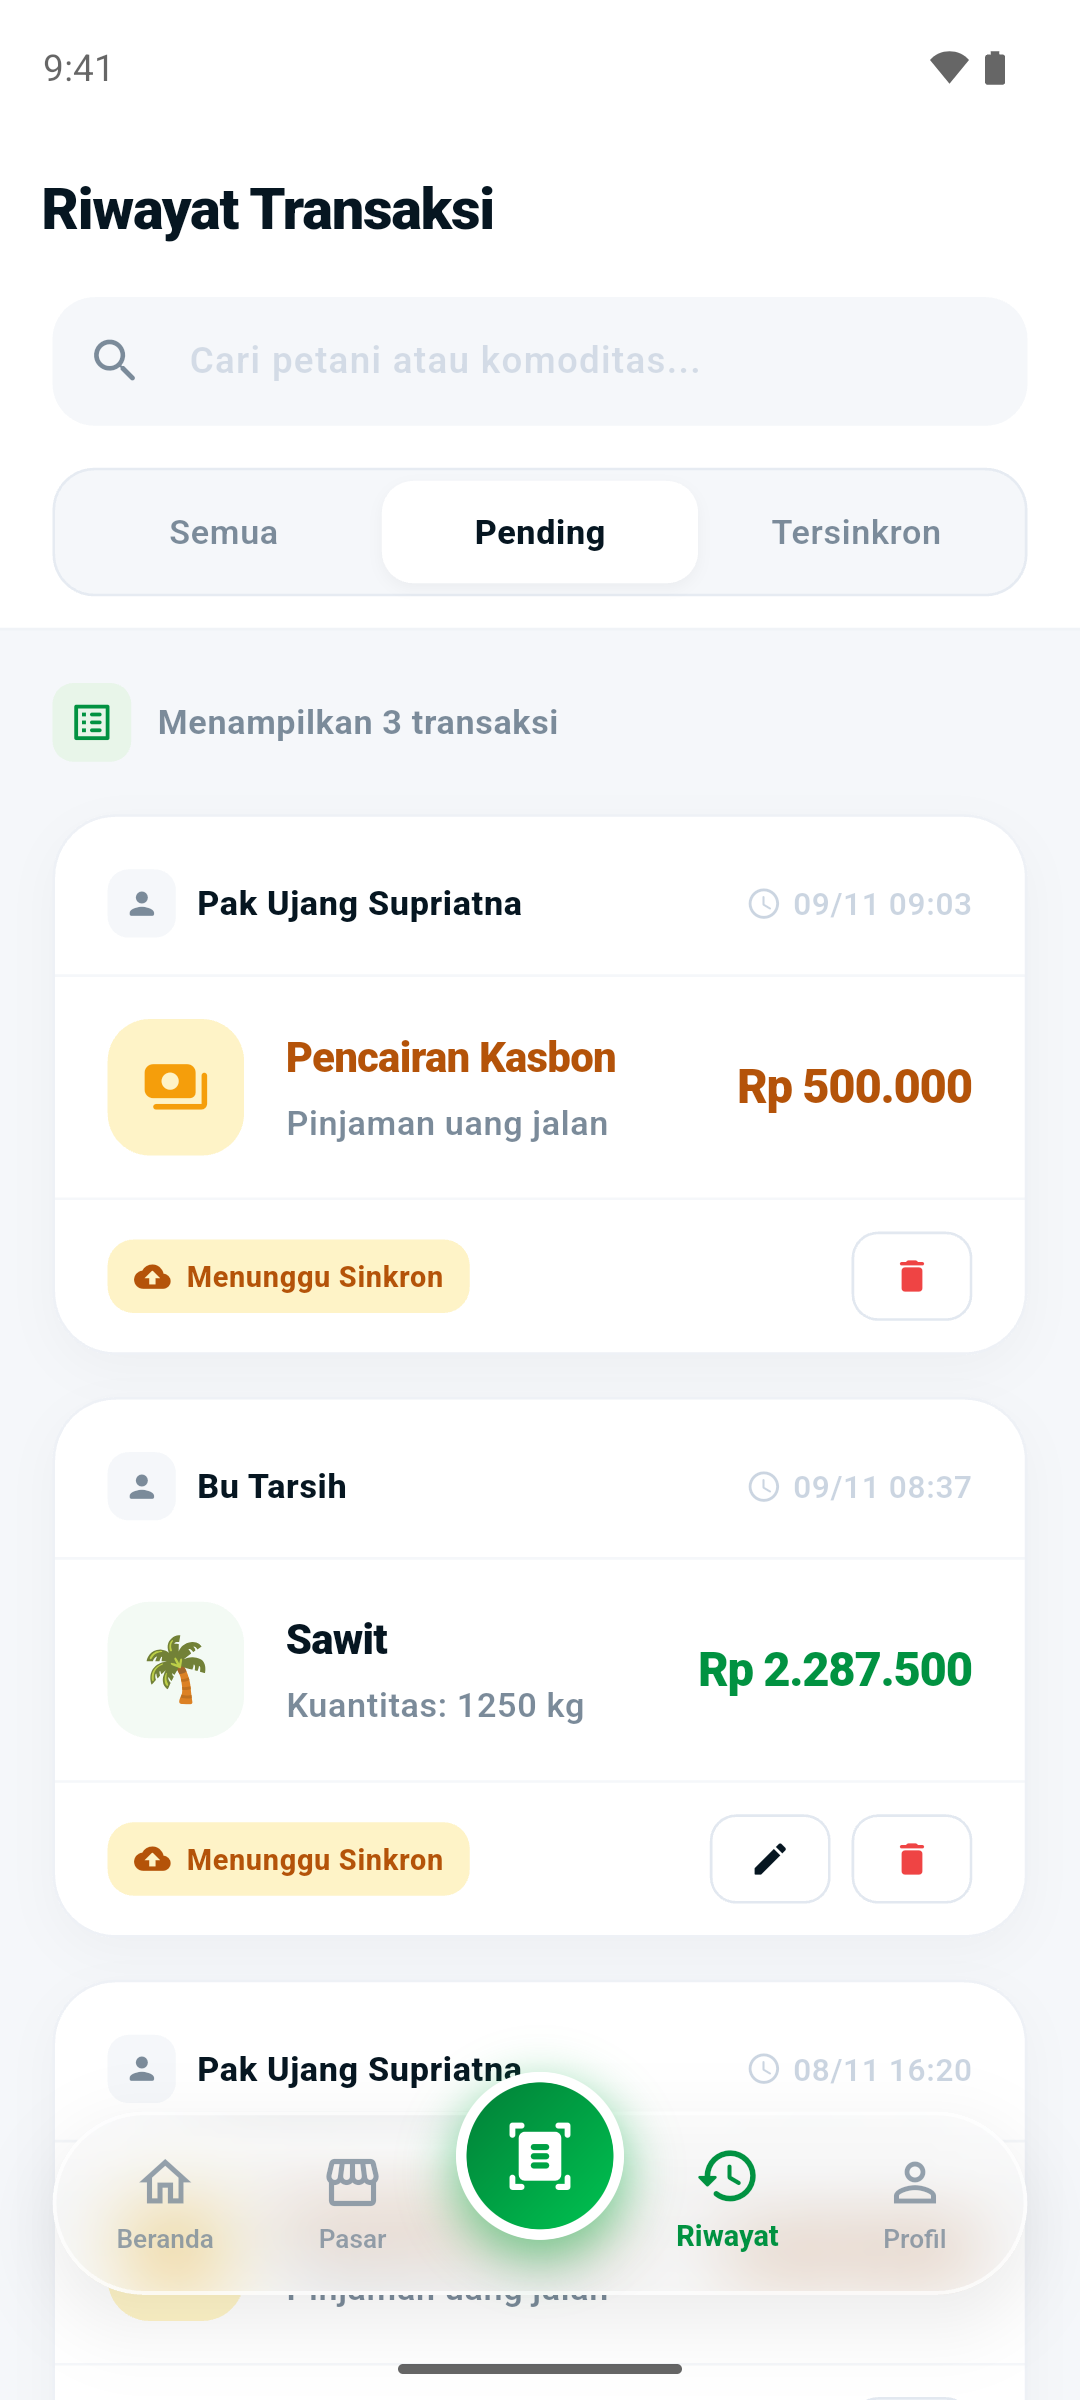
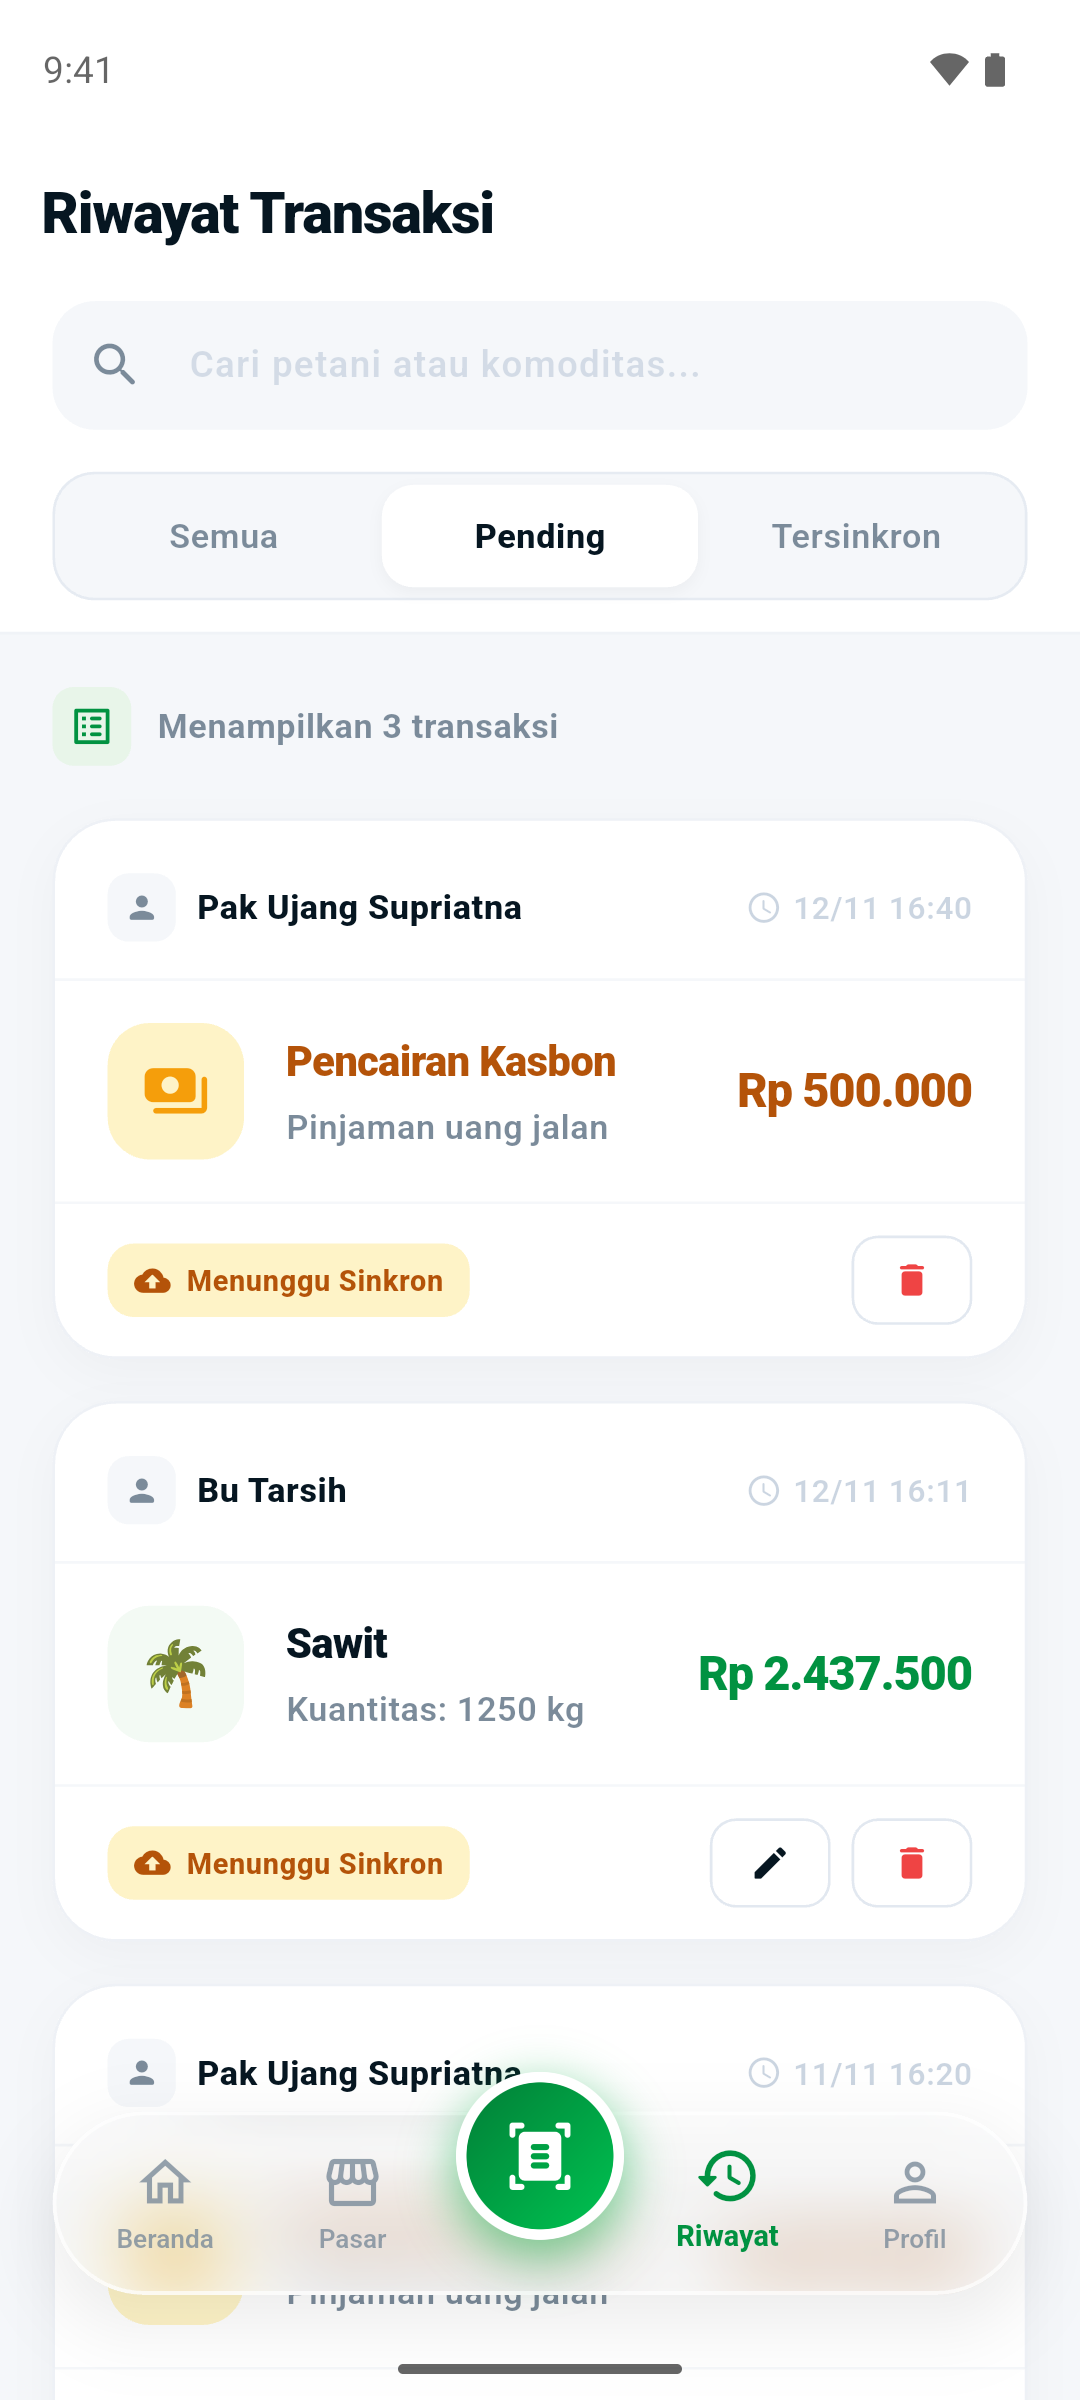
docs(screenshots): retake screens with money totals after the demo fix

diff --git a/docs/screenshots/INDEX.md b/docs/screenshots/INDEX.md
@@ -2,6 +2,8 @@
 
 **Demo data, Nov 2026.** All names, villages, amounts, and transactions are fictional and were seeded into Hive by [`tool/demo/demo_main.dart`](../../tool/demo/demo_main.dart). The app never reached MongoDB Atlas or Cloudinary while these were taken: the demo entrypoint blocks database connections and allows HTTP only to OpenStreetMap tiles. Notification texts are the ones the app itself produces.
 
+Screens showing money totals (07, 08, 09, 13, 33, 34, 36, 38, 42) were retaken on 12 Nov 2026 after the demo seeder was fixed to store `total_bayar` gross, as the app does; their dates and the home greeting reflect that day.
+
 Captured on an Android emulator (API 35, 1080x2400, light mode) with the status bar in SystemUI demo mode (9:41, full battery). The UI language is the app's own (Indonesian). Map tiles © [OpenStreetMap](https://www.openstreetmap.org/copyright) contributors.
 
 The account names Asep, Dudung, and `manajer` match the team's test accounts, but no real login took place: the session was seeded locally, because logging in always checks the password against Atlas.
@@ -27,7 +29,7 @@ The receipt is a generated image marked "CONTOH / DEMO - FIKTIF" with a "DEMO ·
 | `06-login-gagal-offline.png` | Login | All | Login failed, no server | Expected: first login needs the server |
 | `07-agen-beranda.png` | Home | Collector | 7 transactions, 2 pending | |
 | `08-agen-beranda-transaksi.png` | Home (scrolled) | Collector | Max prices, latest transactions | Pending and synced badges |
-| `09-agen-detail-foto.png` | Transaction detail | Collector | Pending, kasbon deduction, proof photos | Seeded local files: dataset palm photo and the demo receipt |
+| `09-agen-detail-foto.png` | Transaction detail | Collector | Pending, kasbon deduction, proof photos | Total, kasbon deduction, and cash paid. Seeded local files: dataset palm photo (cropped from 21) and the demo receipt |
 | `10-agen-notifikasi.png` | Notifications | Collector | Sync failed, saved, synced | App-generated texts |
 | `11-agen-pasar.png` | Market prices | Collector | Max price per grade | |
 | `12-agen-tren-harga.png` | Price trend | Collector | Current max price only | Price history is not stored yet |
